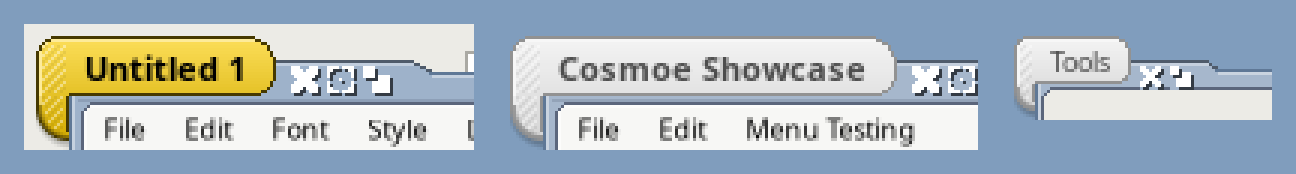
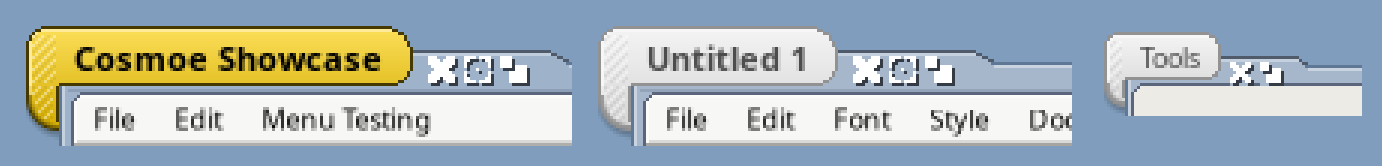
README: screenshots of the full Gonx look
A new desktop shot with Showcase active, a before/after pair, and
close-ups of the tabs, the controls, a menu and an alert.

Claude-Session: https://claude.ai/code/session_01PoWUVMv1eeUCBQHyCbPd83

diff --git a/README.md b/README.md
@@ -173,16 +173,28 @@ theme made for Renku OS: its window frame, its controls, and its colours, fonts 
 colour. Run `gonx-theme apply` to switch to it and `gonx-theme revert` to go back to what was
 there before; apps started afterwards use it.
 
-![Hokku apps on sway with the Gonx look: Showcase's controls, an active document window and a floating palette](docs/screenshots/gonx-theme.png)
+![Hokku apps on sway with the Gonx look: Showcase's controls in front, an inactive StyledEdit window and a floating palette, on the Gonx desktop colour](docs/screenshots/gonx-theme.png)
+
+The same apps before and after `gonx-theme apply` (left: Hokku's own look, with sway's title
+bars; right: Gonx):
+
+![The same desktop in Hokku's own look and in the Gonx look](docs/screenshots/gonx-before-after.png)
+
+Close-ups: the tabs of an active, an inactive and a floating window; the controls; a menu,
+and an alert in the Gonx border.
 
 ![Close-up of the active, inactive and floating tabs](docs/screenshots/gonx-tabs.png)
 
-![Close-up of the Gonx controls in Showcase](docs/screenshots/gonx-controls.png)
+![Close-up of the Gonx controls in Showcase: check box, radio buttons, sliders, buttons, scroll bar and spinner](docs/screenshots/gonx-controls.png)
+
+![An open menu with the Gonx selection colour, and an alert in the Gonx border](docs/screenshots/gonx-menu-alert.png)
 
 - **Window frame.** Titled, document and floating windows get the Gonx tab, flap and
-  rounded corners on Wayland, drawn client-side, so the compositor leaves its own title bar
-  off (tested on sway; KDE honours the same request but hasn't been tried). On X11 the
-  window manager draws frames. `setdecor Gonx` and `setdecor Default` switch only the frame.
+  rounded corners on Wayland, and modal windows (alerts) the Gonx border without a tab,
+  moved by dragging the border. The frame is drawn client-side, so the compositor leaves
+  its own title bar off (tested on sway; KDE honours the same request but hasn't been
+  tried). On X11 the window manager draws frames. `setdecor Gonx` and `setdecor Default`
+  switch only the frame.
 - **Controls.** `GonxControlLook.so`, a control look add-on like the Be, Flat and dark ones,
   draws buttons, check boxes, sliders, scroll bars and tabs. It is the same code as the
   Renku add-on; `setcontrollook` can choose it on its own.
